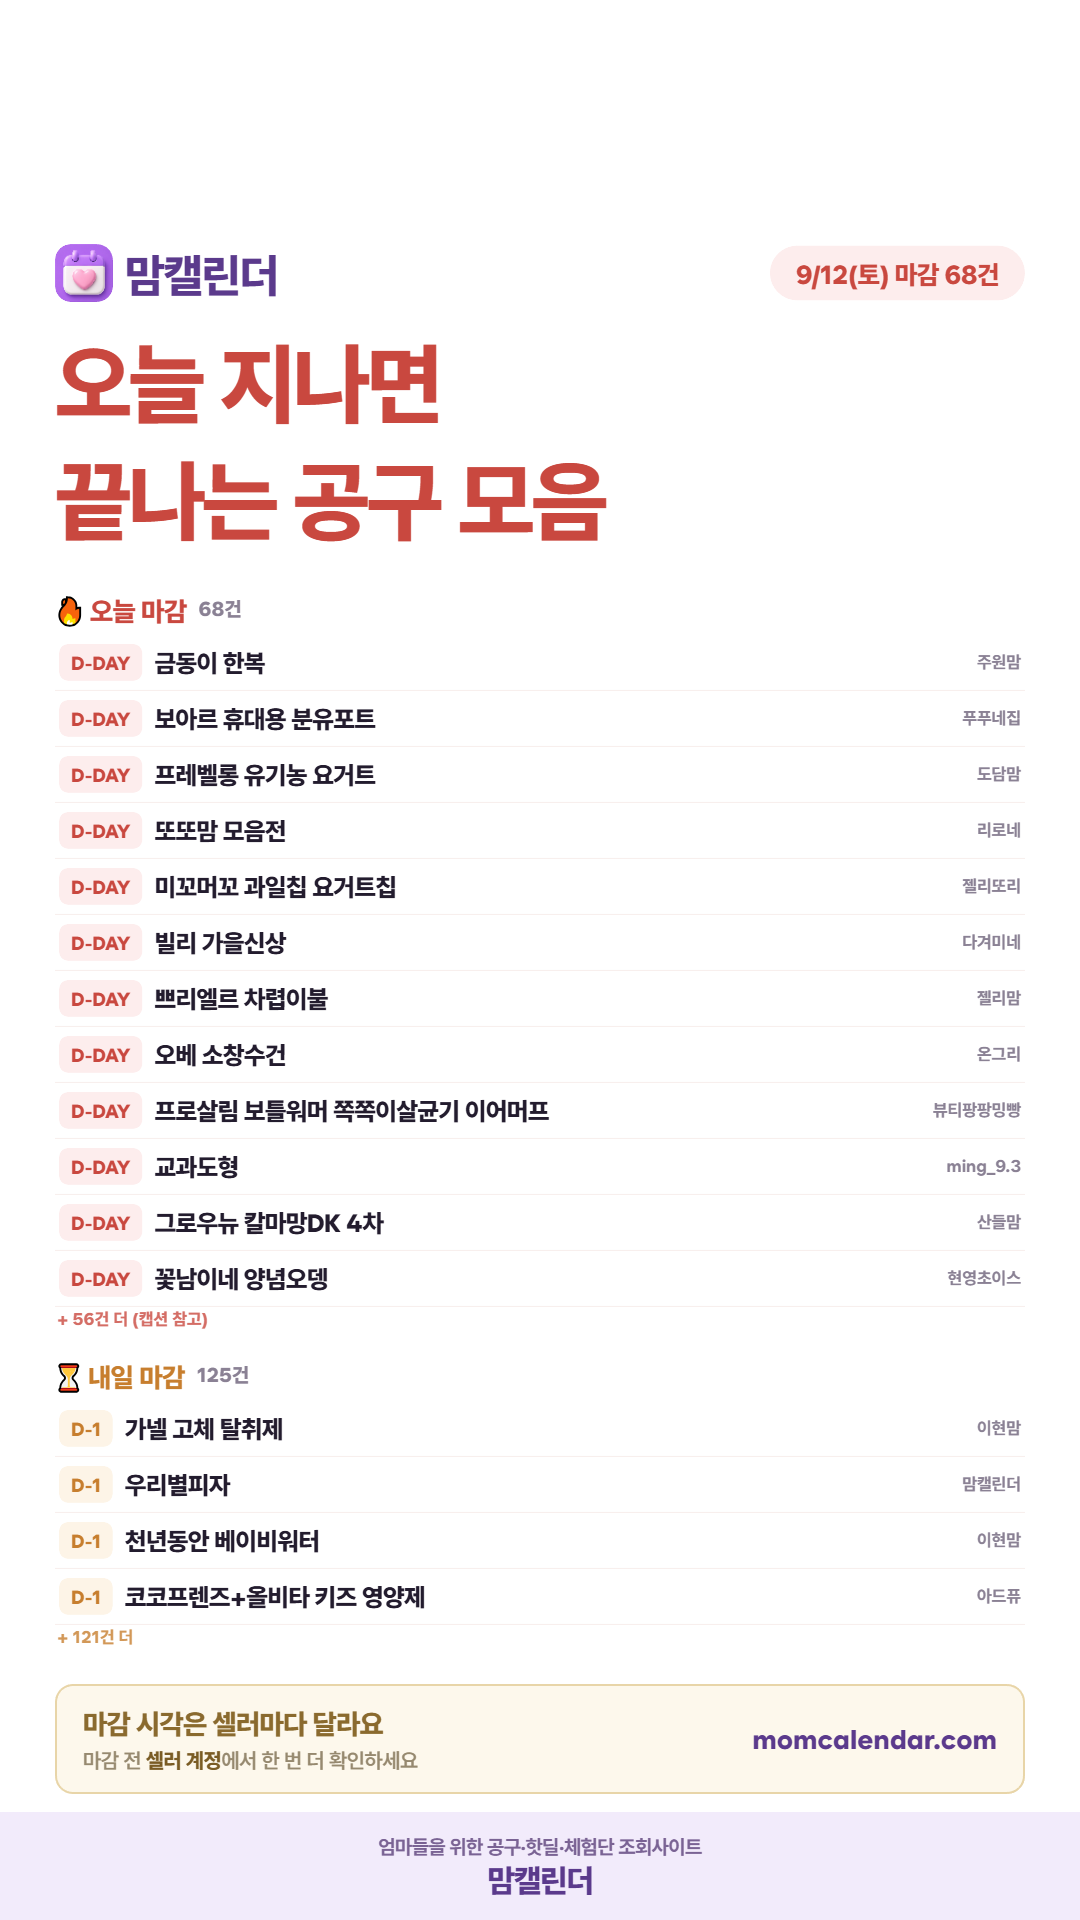
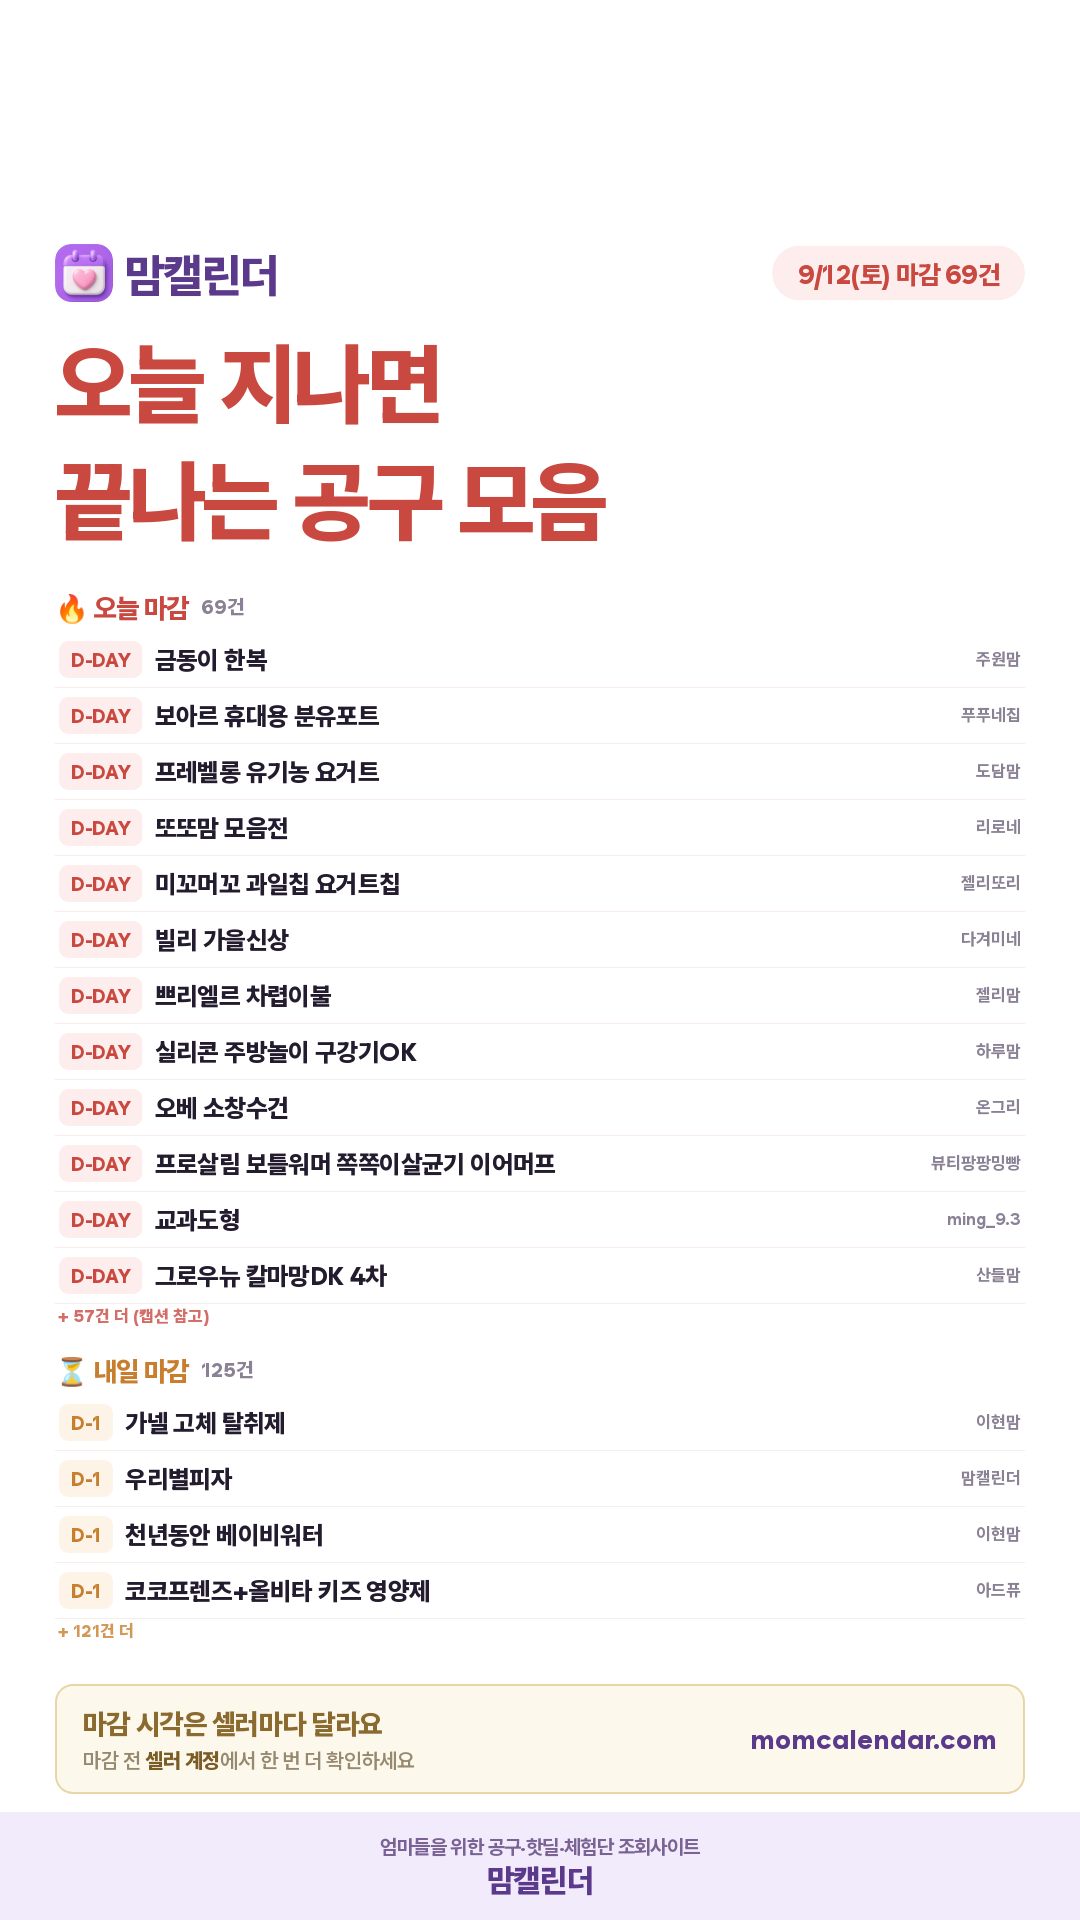
아침 인스타 카드 (2026-09-07)

diff --git a/daily/2026-09-12.html b/daily/2026-09-12.html
@@ -19,15 +19,15 @@ textarea{width:100%;height:260px;border:1px solid #E3DCEF;border-radius:10px;pad
 .todo p{font-size:12.5px;color:#6B6379;line-height:1.75;margin-top:6px}
 .todo a{color:#5B2E8C;font-weight:700}
 </style></head><body>
-<div class="hd"><div class="wrap"><h1>9월 12일(토) 인스타 카드</h1><p>마감임박 · today 68 · tomo 125</p></div></div>
+<div class="hd"><div class="wrap"><h1>9월 12일(토) 인스타 카드</h1><p>마감임박 · today 69 · tomo 125</p></div></div>
 <div class="wrap">
   
   <div class="card"><img src="./2026-09-12.png" alt="오늘 공구 카드"></div>
   <a class="btn" href="./2026-09-12.png" download="momcal_20260912.png">사진 저장</a>
   <div class="card">
-    <textarea id="cap" readonly>고민은 배송만 늦출 뿐… 오늘 끝나는 공구예요
+    <textarea id="cap" readonly>오늘 지나면 못 사는 공구들이에요
 
-⏰ 9월 12일 마감 68건 · 내일 마감 125건
+⏰ 9월 12일 마감 69건 · 내일 마감 125건
 
 ━━━━━━━━━━━━━━
 
@@ -39,6 +39,7 @@ textarea{width:100%;height:260px;border:1px solid #E3DCEF;border-radius:10px;pad
 · 미꼬머꼬 과일칩 요거트칩 — 젤리또리
 · 빌리 가을신상 — 다겨미네
 · 쁘리엘르 차렵이불 — 젤리맘
+· 실리콘 주방놀이 구강기OK — 하루맘
 · 오베 소창수건 — 온그리
 · 프로살림 보틀워머 쪽쪽이살균기 이어머프 — 뷰티팡팡밍빵
 · 교과도형 — ming_9.3
@@ -72,8 +73,7 @@ textarea{width:100%;height:260px;border:1px solid #E3DCEF;border-radius:10px;pad
 · 샤크닌자 블렌드보스 — 햇림
 · 세상가벼운 소가죽 퍼프 숄더백 — 릴리맘
 · 솔리데이 선크림 — planatoc
-· 순둠비 수제 두부 — 이지테이블
-…외 27건
+…외 28건
 
 ⏳ 내일(9/13) 마감
 · 가넬 고체 탈취제 — 이현맘 @ihyeon_mom_251125
@@ -116,29 +116,28 @@ textarea{width:100%;height:260px;border:1px solid #E3DCEF;border-radius:10px;pad
 · 리틀도르 디저트 선물세트 — 간식당
 · 리틀스푼 곡물바×쫀득고구마 — cocobebe___
 · 마마포레스트 33차 — 솔솔홈
-· 맘스보드 니노 책상 세트 — 또서안
-…외 84건
+…외 85건
 
 
 ━━━━━━━━━━━━━━
 
-💜 팔로우 + 📌 저장 조합이면
-공구 놓칠 일이 없어요
+👍 좋아요 · 📌 저장 · 💜 팔로우 해두시면
+매일 공구 일정을 가장 먼저 받아보실 수 있어요
 
 공구 찾을 땐 프로필 링크의 맘캘린더 사이트에서
 검색 한 번이면 끝나요
 피드를 매일 못 보신다면 네이버카페 「맘캘린더」도 있어요
 엄마들끼리 수다 떨며 정보 나누는 공간이에요 ☕
 
-💬 놓친 공구·찾는 공구가 있다면 댓글로 알려주세요
-다음 업데이트 때 1순위로 챙겨서 올릴게요
+💬 궁금한 브랜드·공구는 댓글로 남겨주세요
+우선적으로 찾아서 맘캘린더에 올려드릴게요
 
-내일 일정도 아침에 바로 올려드릴게요 :)
+오늘도 함께해 주셔서 감사해요, 내일 또 만나요 💜
 
 ⚠ 공구 일정은 판매자 사정에 따라 변경·조기마감될 수 있어요.
 
-#맘캘린더 #공구일정 #육아공구 #9월12일공구 #공구모음 #육아용품 #신학기준비 #책육아 #맘스타그램 #유모차 #살림템 #먹거리공구</textarea>
-    <div class="meta">2181자</div>
+#맘캘린더 #공구일정 #육아공구 #9월12일공구 #교구 #놀잇감 #오늘의공구 #육아용품 #공구모음 #유모차 #육아템 #맘스타그램</textarea>
+    <div class="meta">2175자</div>
     <button class="btn btn2" onclick="cp('cap','캡션')">캡션 복사</button>
   </div>
   <div class="card">

diff --git a/daily/index.html b/daily/index.html
@@ -1,1 +1,1 @@
-<!DOCTYPE html><meta charset="UTF-8"><meta http-equiv="refresh" content="0;url=./2026-09-11.html">
+<!DOCTYPE html><meta charset="UTF-8"><meta http-equiv="refresh" content="0;url=./2026-09-12.html">
